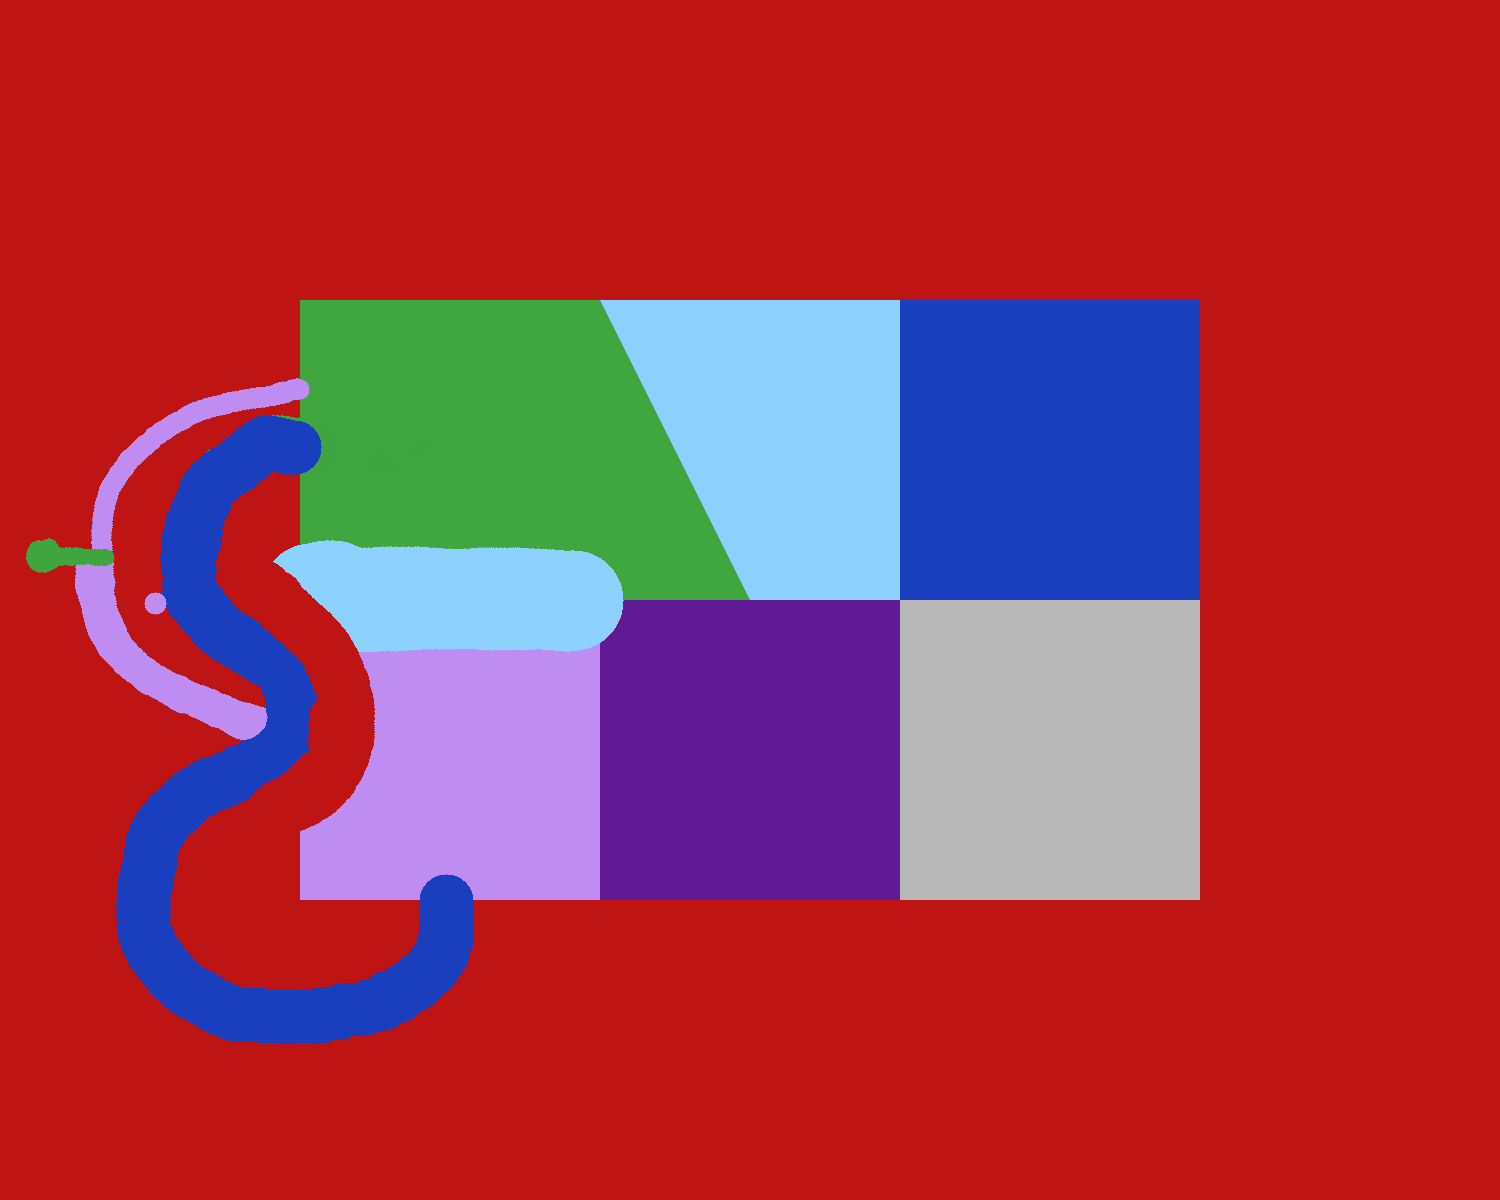
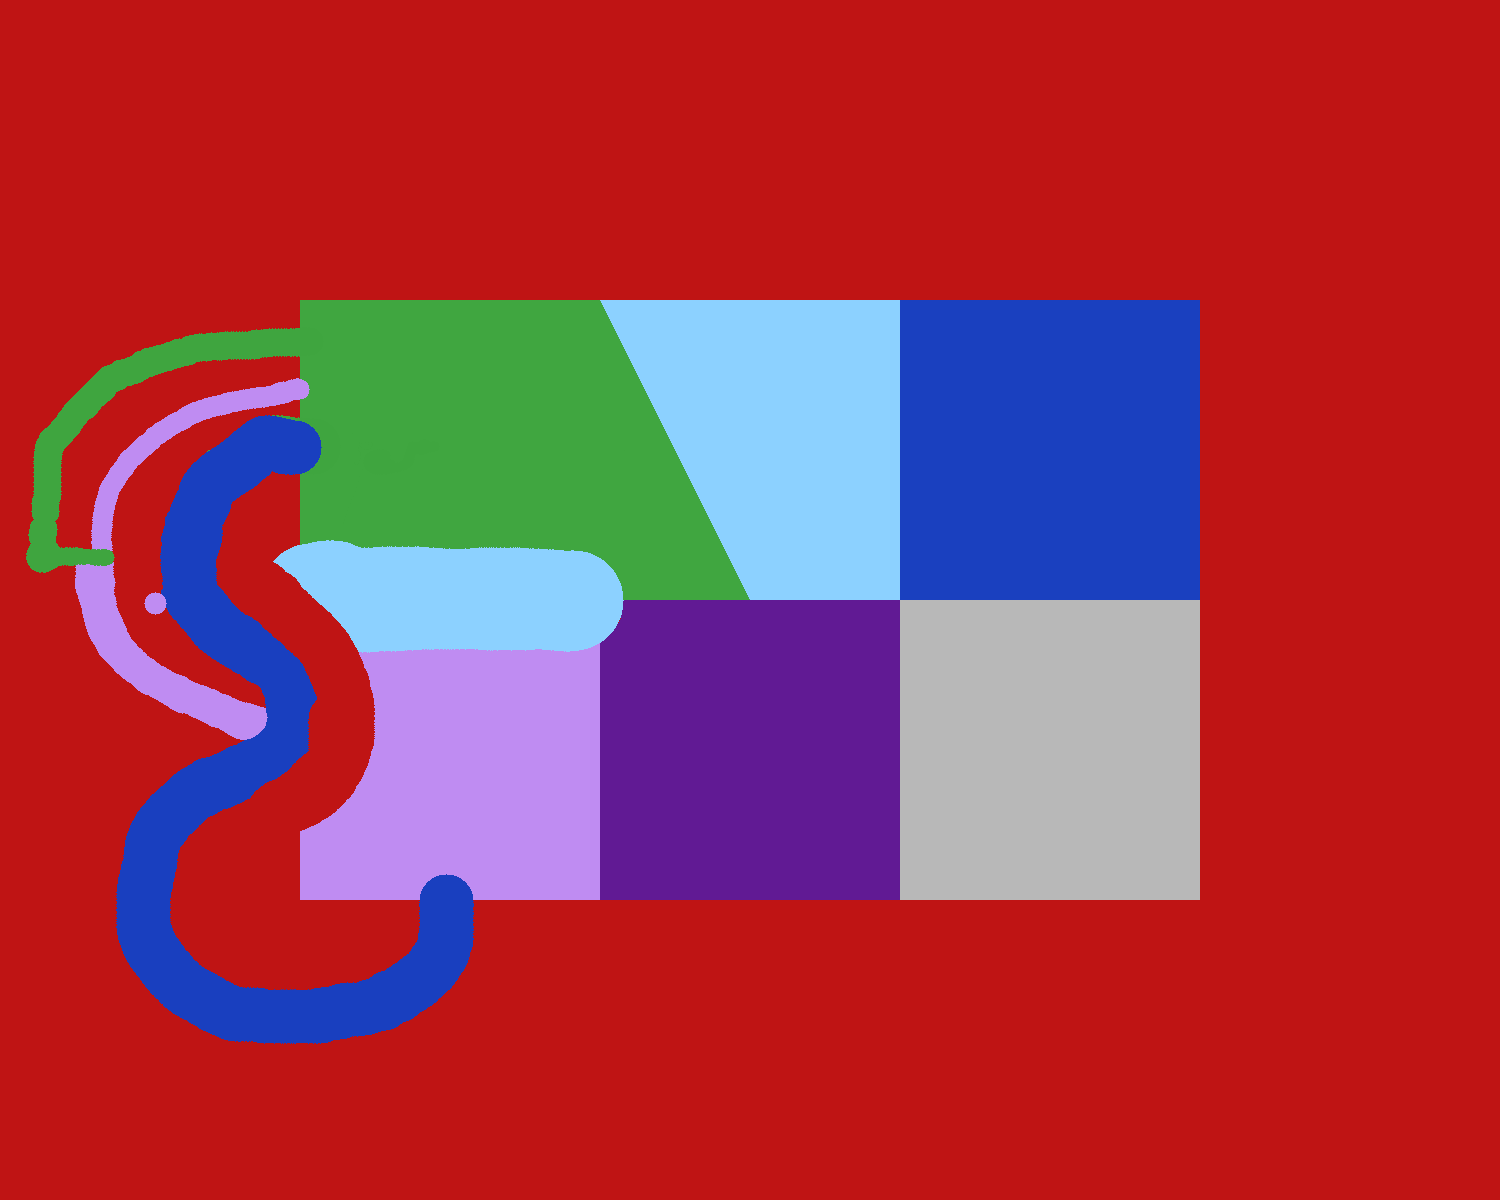
save / play test logic

Changed region(s): [[0.0, 0.2775, 0.2147, 0.4625]]

diff --git a/scripts/Editor.Entities.cs b/scripts/Editor.Entities.cs
@@ -121,7 +121,7 @@ public partial class Editor
     {
         if (_levelData == null) return;
         if (_mode == EditorMode.Enemies) { OnEnemyLeftPressed(px); return; }
-        if (_mode != EditorMode.Entities) return;
+        if (_mode != EditorMode.Entities || !_placementArmed) return;
 
         float cellSize = GameplayConstants.CellSize;
         var   world    = new Vector2((px.X + 0.5f) * cellSize, (px.Y + 0.5f) * cellSize);
@@ -142,8 +142,60 @@ public partial class Editor
 
         entities.Add(new EntityData { Kind = kind, X = world.X, Y = world.Y });
         _levelData.Entities = [.. entities];
+        _placementArmed = false;
 
         RefreshOverlays();
         SetDirty();
+    }
+
+    private void SyncPositionFields()
+    {
+        if (_selectedIndex < 0 || _levelData == null)
+            return;
+
+        float   cellSize = GameplayConstants.CellSize;
+        Vector2 pos      = _selectedIndex < _levelData.Entities.Length
+            ? new Vector2(_levelData.Entities[_selectedIndex].X, _levelData.Entities[_selectedIndex].Y)
+            : EnemyOrigin(_levelData.Enemies[_selectedIndex - _levelData.Entities.Length].Behavior);
+
+        _syncingFields       = true;
+        _selectionXEdit.Text = ((int)(pos.X / cellSize)).ToString();
+        _selectionYEdit.Text = ((int)(pos.Y / cellSize)).ToString();
+        _syncingFields       = false;
+    }
+
+    private void OnSelectionPositionChanged()
+    {
+        if (_syncingFields || _selectedIndex < 0 || _levelData == null) return;
+        if (!int.TryParse(_selectionXEdit.Text, out int tx)) return;
+        if (!int.TryParse(_selectionYEdit.Text, out int ty)) return;
+
+        float   cellSize = GameplayConstants.CellSize;
+        Vector2 world    = new Vector2((tx + 0.5f) * cellSize, (ty + 0.5f) * cellSize);
+
+        if (_selectedIndex < _levelData.Entities.Length)
+        {
+            var e = _levelData.Entities[_selectedIndex];
+            e.X = world.X;
+            e.Y = world.Y;
+        }
+        else
+        {
+            SetEnemyOrigin(_levelData.Enemies[_selectedIndex - _levelData.Entities.Length], world);
+        }
+
+        RefreshCanvasOverlays();
+        SetDirty();
+    }
+
+    private static void SetEnemyOrigin(EnemyData enemy, Vector2 world)
+    {
+        switch (enemy.Behavior)
+        {
+            case PatrolBehaviorData  p when p.Waypoints.Length > 0: p.Waypoints[0].X = world.X; p.Waypoints[0].Y = world.Y; break;
+            case OrbiterBehaviorData o: o.CenterX = world.X; o.CenterY = world.Y; break;
+            case WanderBehaviorData  w when w.StartX.HasValue: w.StartX = world.X; w.StartY = world.Y; break;
+            case WanderBehaviorData  w when w.Polygon.Length > 0: w.Polygon[0].X = world.X; w.Polygon[0].Y = world.Y; break;
+        }
     }
 }

diff --git a/scripts/LevelData.cs b/scripts/LevelData.cs
@@ -56,10 +56,6 @@ public class TriggerSpawnData : SpawnConditionData
 [JsonDerivedType(typeof(PatrolBehaviorData),  "patrol")]
 [JsonDerivedType(typeof(WanderBehaviorData),  "wander")]
 [JsonDerivedType(typeof(OrbiterBehaviorData), "orbiter")]
-[JsonDerivedType(typeof(ChaserBehaviorData),  "chaser")]
-[JsonDerivedType(typeof(BouncerBehaviorData), "bouncer")]
-[JsonDerivedType(typeof(SniperBehaviorData),  "sniper")]
-[JsonDerivedType(typeof(GuardBehaviorData),   "guard")]
 public abstract class BehaviorData { }
 
 public class PatrolBehaviorData : BehaviorData
@@ -89,39 +85,6 @@ public class OrbiterBehaviorData : BehaviorData
     public float StartAngle   { get; set; }
 }
 
-public class ChaserBehaviorData : BehaviorData
-{
-    public float StartX          { get; set; }
-    public float StartY          { get; set; }
-    public float Speed           { get; set; }
-    public float DetectionRadius { get; set; }
-    public float GiveUpRadius    { get; set; }
-}
-
-public class BouncerBehaviorData : BehaviorData
-{
-    public float StartX { get; set; }
-    public float StartY { get; set; }
-    public float Angle  { get; set; }
-    public float Speed  { get; set; }
-}
-
-public class SniperBehaviorData : BehaviorData
-{
-    public float X            { get; set; }
-    public float Y            { get; set; }
-    public float Range        { get; set; }
-    public float FireInterval { get; set; }
-    public float AimDuration  { get; set; }
-}
-
-public class GuardBehaviorData : BehaviorData
-{
-    public WaypointData[] Waypoints       { get; set; } = [];
-    public float          DetectionRadius { get; set; }
-    public float          GiveUpRadius    { get; set; }
-    public float          AlertSpeed      { get; set; }
-}
 
 public class WaypointData
 {

diff --git a/scripts/Editor.Layout.cs b/scripts/Editor.Layout.cs
@@ -189,7 +189,10 @@ public partial class Editor
             slot.GuiInput += e =>
             {
                 if (e is InputEventMouseButton { Pressed: true, ButtonIndex: MouseButton.Left })
+                {
                     SelectSlot(captured);
+                    ArmPlacement();
+                }
             };
         }
 
@@ -220,10 +223,30 @@ public partial class Editor
         _selectionKindLabel.AddThemeColorOverride("font_color", new Color(0.95f, 0.95f, 1.00f));
         details.AddChild(_selectionKindLabel);
 
-        _selectionPosLabel = new Label { Text = "" };
-        _selectionPosLabel.AddThemeFontSizeOverride("font_size", 12);
-        _selectionPosLabel.AddThemeColorOverride("font_color", new Color(0.55f, 0.55f, 0.60f));
-        details.AddChild(_selectionPosLabel);
+        var posRow = new HBoxContainer();
+        posRow.AddThemeConstantOverride("separation", 4);
+
+        var xLabel = new Label { Text = "X", VerticalAlignment = VerticalAlignment.Center };
+        xLabel.AddThemeFontSizeOverride("font_size", 11);
+        xLabel.AddThemeColorOverride("font_color", new Color(0.55f, 0.55f, 0.60f));
+
+        _selectionXEdit = new LineEdit { SizeFlagsHorizontal = SizeFlags.ExpandFill };
+        _selectionXEdit.AddThemeFontSizeOverride("font_size", 12);
+        _selectionXEdit.TextChanged += _ => OnSelectionPositionChanged();
+
+        var yLabel = new Label { Text = "Y", VerticalAlignment = VerticalAlignment.Center };
+        yLabel.AddThemeFontSizeOverride("font_size", 11);
+        yLabel.AddThemeColorOverride("font_color", new Color(0.55f, 0.55f, 0.60f));
+
+        _selectionYEdit = new LineEdit { SizeFlagsHorizontal = SizeFlags.ExpandFill };
+        _selectionYEdit.AddThemeFontSizeOverride("font_size", 12);
+        _selectionYEdit.TextChanged += _ => OnSelectionPositionChanged();
+
+        posRow.AddChild(xLabel);
+        posRow.AddChild(_selectionXEdit);
+        posRow.AddChild(yLabel);
+        posRow.AddChild(_selectionYEdit);
+        details.AddChild(posRow);
 
         var nameLabel = new Label { Text = "Name" };
         nameLabel.AddThemeFontSizeOverride("font_size", 11);

diff --git a/scripts/Editor.File.cs b/scripts/Editor.File.cs
@@ -188,6 +188,24 @@ public partial class Editor
         dialog.PopupCentered(new Vector2I(700, 500));
     }
 
+    private void RestorePlaytestSnapshot()
+    {
+        var snap = GameSetup.PlaytestRestore!;
+        GameSetup.PlaytestRestore = null;
+
+        _levelData = snap.LevelData;
+        _levelPath = snap.LevelPath;
+        _levelDir  = snap.LevelPath.GetBaseDir();
+        GameSetup.LastEditorLevelPath = snap.LevelPath;
+
+        _canvas.LoadImage(snap.Image);
+        _hint.Visible = false;
+        ClearSelection();
+        RefreshOverlays();
+
+        if (snap.WasDirty) SetDirty(); else ClearDirty();
+    }
+
     private void LoadLevelFile(string path)
     {
         GameSetup.LastEditorLevelPath = path;
@@ -255,10 +273,13 @@ public partial class Editor
 
     private void OnPlay()
     {
-        if (string.IsNullOrEmpty(_levelPath)) return;
+        if (string.IsNullOrEmpty(_levelPath) || _levelData == null) return;
 
-        // Auto-save the PNG so the World loads the current painted state.
-        _canvas.GetImage()?.SavePng(_levelPath.GetBaseName() + ".png");
+        var image = _canvas.GetImage();
+        if (image == null) return;
+
+        // Hold direct references — no disk writes, GameSetup survives scene changes.
+        GameSetup.PlaytestRestore = new GameSetup.EditorSnapshot(_levelPath, _levelData, image, _dirty);
 
         GameSetup.PlaytestPath = _levelPath;
         RunState.Reset();

diff --git a/scripts/Editor.Modes.cs b/scripts/Editor.Modes.cs
@@ -10,7 +10,7 @@ public partial class Editor
     [
         ["Ground", "Slidy", "Fast", "Confusing", "FastConf", "Straight", "Kill", "Void"],
         ["Start", "End", "Bonus"],
-        ["Patrol", "Wander", "Orbiter", "Chaser", "Bouncer", "Sniper", "Guard"],
+        ["Patrol", "Wander", "Orbiter"],
         ["Button", "Door"],
     ];
 
@@ -35,10 +35,6 @@ public partial class Editor
             new Color(0.88f, 0.28f, 0.18f),
             new Color(0.88f, 0.18f, 0.48f),
             new Color(0.28f, 0.80f, 0.48f),
-            new Color(0.80f, 0.48f, 0.08f),
-            new Color(0.18f, 0.58f, 0.90f),
-            new Color(0.90f, 0.80f, 0.08f),
-            new Color(0.68f, 0.18f, 0.90f),
         ],
         [
             new Color(0.18f, 0.78f, 0.78f),
@@ -75,6 +71,14 @@ public partial class Editor
         }
 
         SelectSlot(0);
+    }
+
+    private void ArmPlacement()
+    {
+        if (_mode is not (EditorMode.Entities or EditorMode.Enemies)) return;
+        if (_placementMode != EnemyPlacementMode.None)
+            FinalizePlacement();
+        _placementArmed = true;
     }
 
     private void SelectSlot(int index)

diff --git a/scripts/Editor.Overlays.cs b/scripts/Editor.Overlays.cs
@@ -113,24 +113,20 @@ public partial class Editor
         _selectionHint.Visible    = false;
         _selectionDetails.Visible = true;
 
-        float cellSize = GameplayConstants.CellSize;
-
         if (_selectedIndex < _levelData.Entities.Length)
         {
             var    e    = _levelData.Entities[_selectedIndex];
             string kind = EntityKindLabel(e.Kind);
             _selectionKindLabel.Text = string.IsNullOrEmpty(e.Name) ? kind : $"{kind} - {e.Name}";
-            _selectionPosLabel.Text  = $"Tile ({(int)(e.X / cellSize)}, {(int)(e.Y / cellSize)})";
         }
         else
         {
             var    e    = _levelData.Enemies[_selectedIndex - _levelData.Entities.Length];
             string kind = EnemyKindLabel(e.Behavior);
-            var    pos  = EnemyOrigin(e.Behavior);
             _selectionKindLabel.Text = string.IsNullOrEmpty(e.Name) ? kind : $"{kind} - {e.Name}";
-            _selectionPosLabel.Text  = $"Tile ({(int)(pos.X / cellSize)}, {(int)(pos.Y / cellSize)})";
         }
 
+        SyncPositionFields();
         PopulateBehaviorConfig();
     }
 
@@ -147,10 +143,6 @@ public partial class Editor
         PatrolBehaviorData  => "Patrol",
         WanderBehaviorData  => "Wander",
         OrbiterBehaviorData => "Orbiter",
-        ChaserBehaviorData  => "Chaser",
-        BouncerBehaviorData => "Bouncer",
-        SniperBehaviorData  => "Sniper",
-        GuardBehaviorData   => "Guard",
         _                   => "",
     };
 
@@ -161,10 +153,6 @@ public partial class Editor
         WanderBehaviorData  w => w.StartX.HasValue
                                      ? new Vector2(w.StartX.Value, w.StartY!.Value)
                                      : (w.Polygon.Length > 0 ? new Vector2(w.Polygon[0].X, w.Polygon[0].Y) : Vector2.Zero),
-        ChaserBehaviorData  c => new Vector2(c.StartX, c.StartY),
-        BouncerBehaviorData n => new Vector2(n.StartX, n.StartY),
-        SniperBehaviorData  s => new Vector2(s.X, s.Y),
-        GuardBehaviorData   g => g.Waypoints.Length > 0 ? new Vector2(g.Waypoints[0].X, g.Waypoints[0].Y) : Vector2.Zero,
         _                     => Vector2.Zero,
     };
 }

diff --git a/scripts/LevelLoader.cs b/scripts/LevelLoader.cs
@@ -25,11 +25,17 @@ public static class LevelLoader
         return Populate(data, path.GetBaseDir(), parent);
     }
 
-    private static LoadResult Populate(LevelData data, string levelDir, Node parent)
+    public static LoadResult Load(LevelData data, Image image, Node parent) =>
+        Populate(data, image, parent);
+
+    private static LoadResult Populate(LevelData data, string levelDir, Node parent) =>
+        Populate(data, Image.LoadFromFile(levelDir + "/" + data.Bitmap), parent);
+
+    private static LoadResult Populate(LevelData data, Image image, Node parent)
     {
         var result = new LoadResult();
 
-        result.LevelBounds = BuildSurfaces(data, levelDir, parent);
+        result.LevelBounds = BuildSurfaces(image, parent);
 
         foreach (var e in data.Entities)
         {
@@ -63,10 +69,8 @@ public static class LevelLoader
 
     // --- Surface zone construction ---
 
-    private static Rect2 BuildSurfaces(LevelData data, string levelDir, Node parent)
+    private static Rect2 BuildSurfaces(Image image, Node parent)
     {
-        string imagePath = levelDir + "/" + data.Bitmap;
-        var    image     = Image.LoadFromFile(imagePath);
         float  cs        = GameplayConstants.CellSize;
         int    w         = image.GetWidth();
         int    h         = image.GetHeight();

diff --git a/scripts/Editor.cs b/scripts/Editor.cs
@@ -25,8 +25,11 @@ public partial class Editor : Control
     private Label         _selectionHint        = null!;
     private Control       _selectionDetails     = null!;
     private Label         _selectionKindLabel   = null!;
-    private Label         _selectionPosLabel    = null!;
+    private LineEdit      _selectionXEdit       = null!;
+    private LineEdit      _selectionYEdit       = null!;
     private LineEdit      _selectionNameEdit    = null!;
+    private bool          _syncingFields;
+    private bool          _placementArmed;
     private VBoxContainer _behaviorConfigContainer = null!;
     private EnemyPlacementMode _placementMode   = EnemyPlacementMode.None;
     private EnemyData?    _placementTarget;
@@ -80,7 +83,9 @@ public partial class Editor : Control
 
         SetMode(EditorMode.Paint);
 
-        if (!string.IsNullOrEmpty(GameSetup.LastEditorLevelPath))
+        if (GameSetup.PlaytestRestore != null)
+            RestorePlaytestSnapshot();
+        else if (!string.IsNullOrEmpty(GameSetup.LastEditorLevelPath))
             LoadLevelFile(GameSetup.LastEditorLevelPath);
     }
 
@@ -94,7 +99,7 @@ public partial class Editor : Control
             Key.Key5 => 4, Key.Key6 => 5, Key.Key7 => 6, Key.Key8 => 7,
             _ => -1,
         };
-        if (slot >= 0) { SelectSlot(slot); GetViewport().SetInputAsHandled(); return; }
+        if (slot >= 0) { SelectSlot(slot); ArmPlacement(); GetViewport().SetInputAsHandled(); return; }
 
         if (key.Keycode == Key.Bracketleft)  { AdjustBrush(-1); GetViewport().SetInputAsHandled(); return; }
         if (key.Keycode == Key.Bracketright) { AdjustBrush(+1); GetViewport().SetInputAsHandled(); return; }

diff --git a/scripts/World.cs b/scripts/World.cs
@@ -35,7 +35,10 @@ public partial class World : Node2D
 
         string levelPath = GameSetup.IsPlaytest ? GameSetup.PlaytestPath! : "res://levels/test.json";
         if (GameSetup.IsPlaytest) AddPlaytestBanner();
-        var result = LevelLoader.Load(levelPath, this);
+        var snap   = GameSetup.PlaytestRestore;
+        var result = snap != null
+            ? LevelLoader.Load(snap.LevelData, snap.Image, this)
+            : LevelLoader.Load(levelPath, this);
         _startPosition = result.StartPosition;
         _levelBounds   = result.LevelBounds;
         if (result.EndBlock != null)

diff --git a/scripts/GameSetup.cs b/scripts/GameSetup.cs
@@ -19,4 +19,8 @@ public static class GameSetup
 
     // Persists the last level opened in the editor so it survives scene reloads.
     public static string? LastEditorLevelPath { get; set; }
+
+    // In-memory snapshot taken before playtesting so unsaved changes survive the round-trip.
+    public record EditorSnapshot(string LevelPath, LevelData LevelData, Godot.Image Image, bool WasDirty);
+    public static EditorSnapshot? PlaytestRestore { get; set; }
 }

diff --git a/scripts/Editor.Enemies.cs b/scripts/Editor.Enemies.cs
@@ -21,6 +21,8 @@ public partial class Editor
             return;
         }
 
+        if (!_placementArmed) return;
+
         EnemyData? enemy = _selectedSlot switch
         {
             0 => CreatePatrolEnemy(world),
@@ -78,6 +80,7 @@ public partial class Editor
     {
         _placementMode   = EnemyPlacementMode.None;
         _placementTarget = null;
+        _placementArmed  = false;
         _canvas.SetGhostLine(null);
     }
 